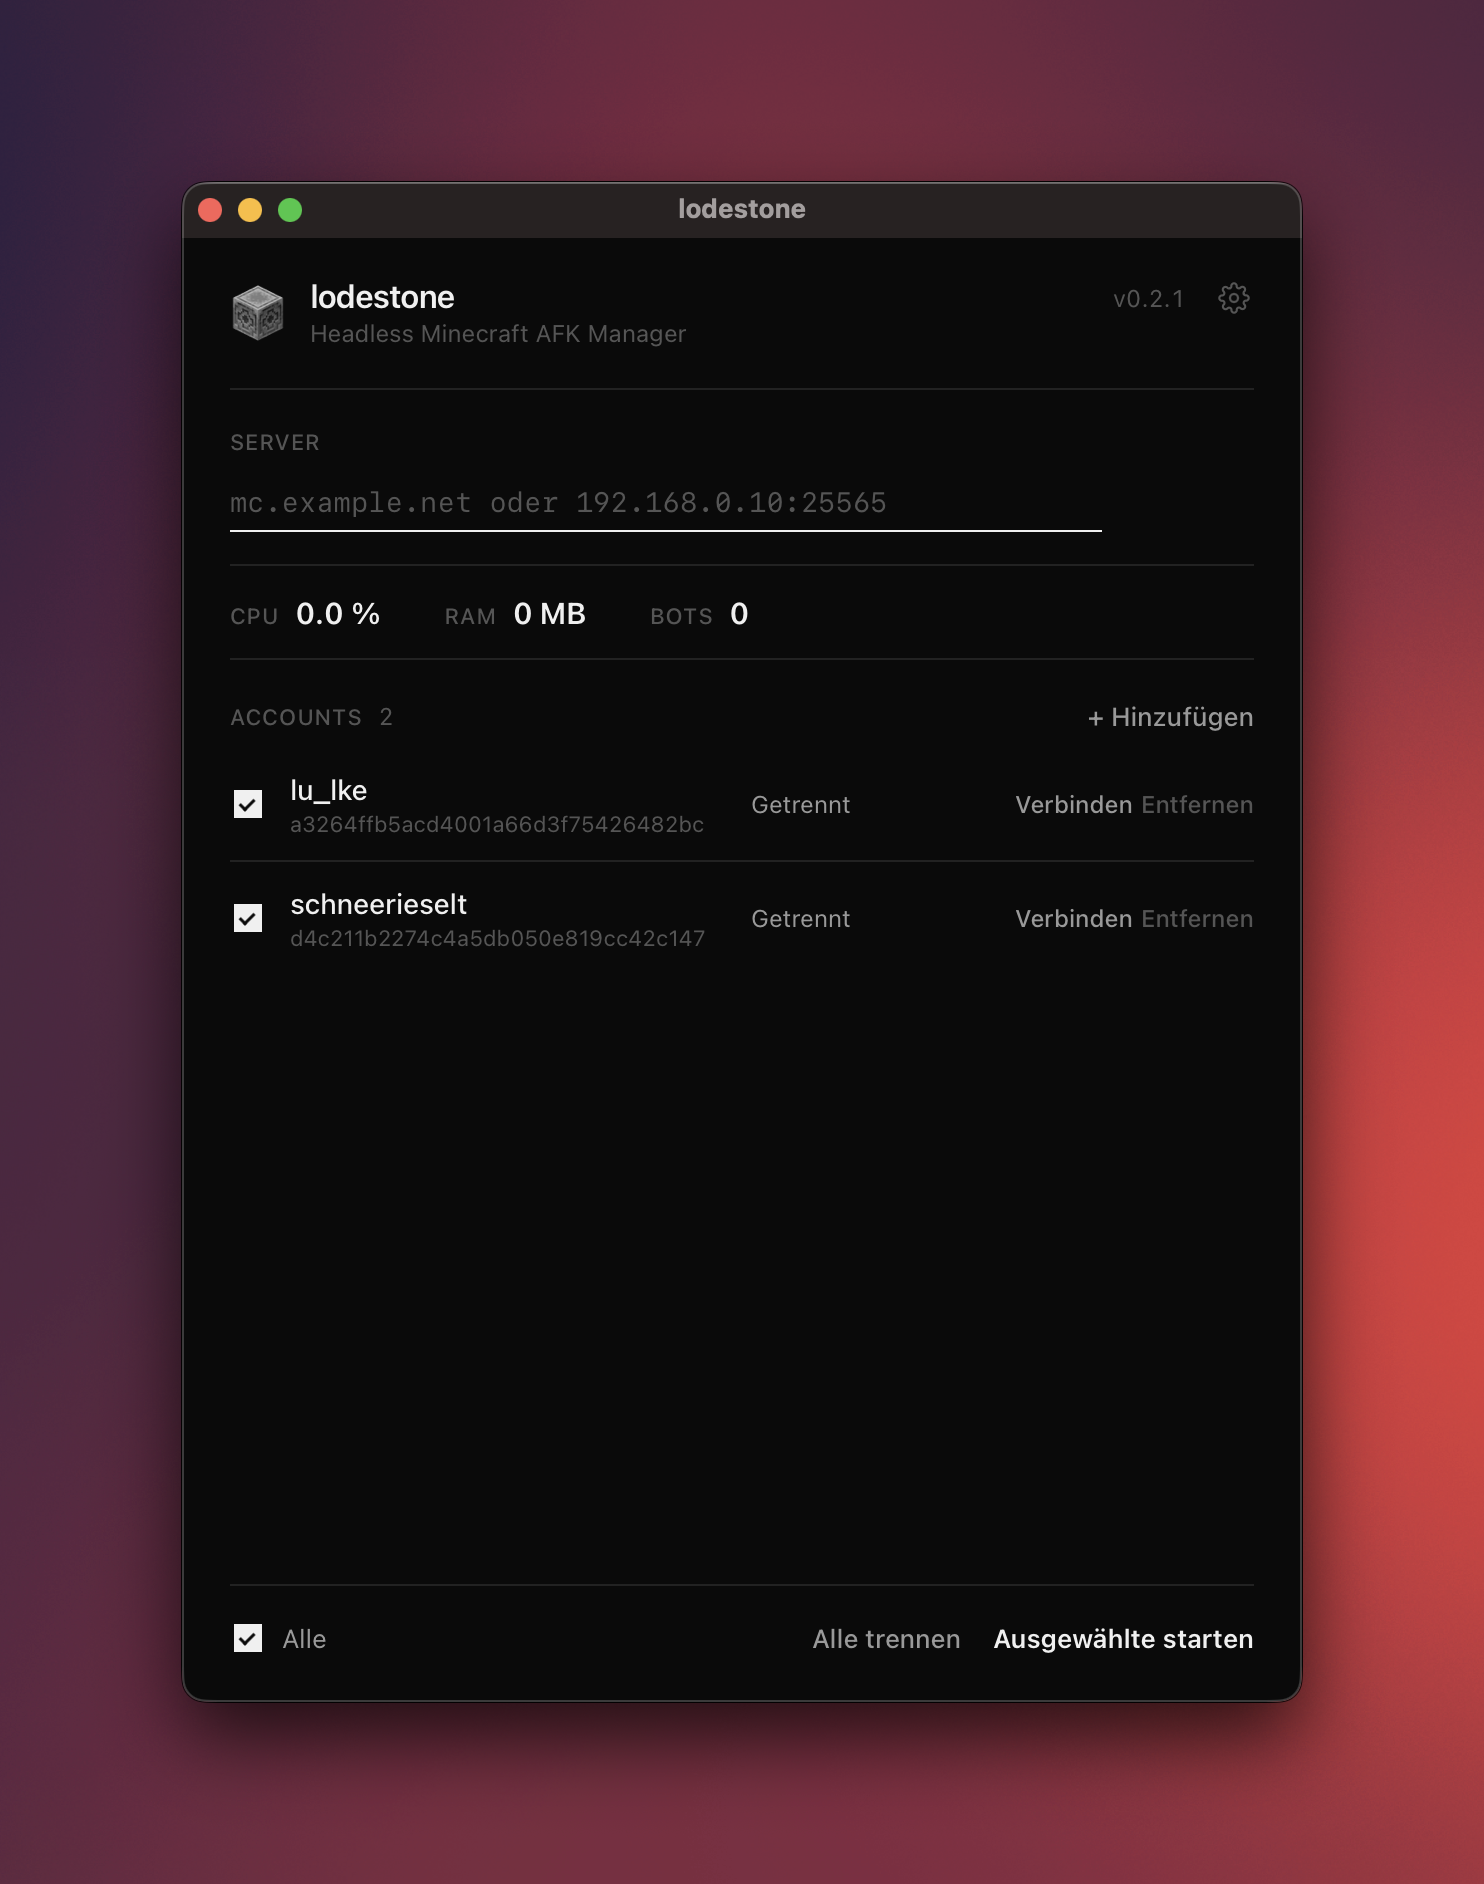
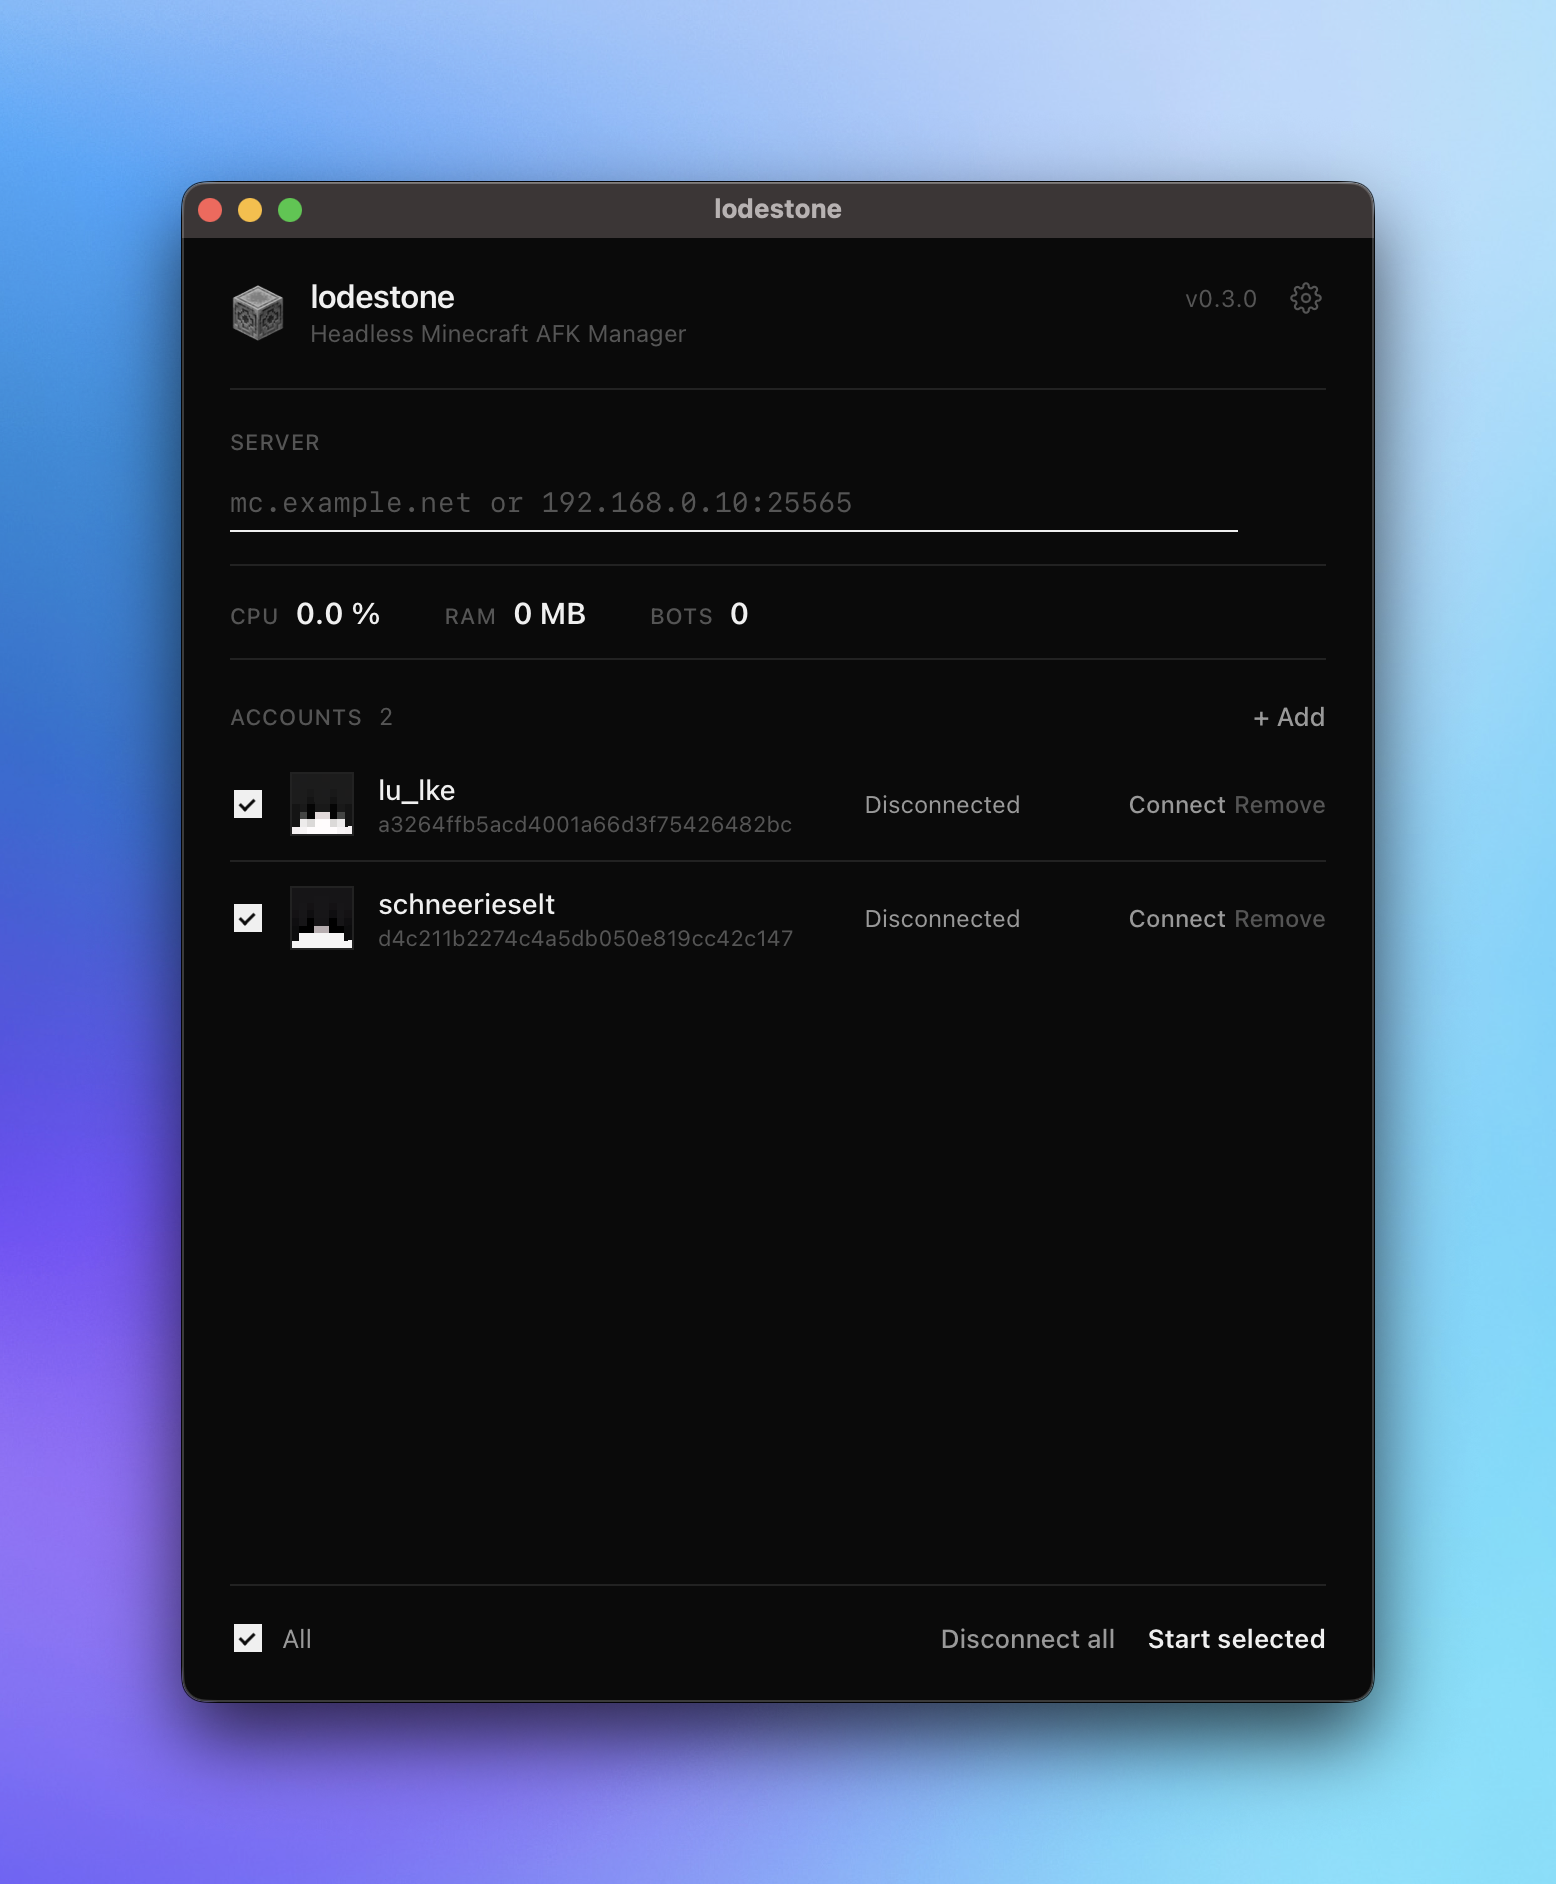
Update macOS event handling in Tauri application and replace main window screenshot

diff --git a/src-tauri/src/lib.rs b/src-tauri/src/lib.rs
@@ -362,10 +362,12 @@ pub fn run() {
         ])
         .build(tauri::generate_context!())
         .expect("error while running tauri application")
-        .run(|app, event| {
+        .run(|_app, _event| {
             // macOS: clicking the dock icon should restore the hidden window.
-            if let tauri::RunEvent::Reopen { .. } = event {
-                show_main(app);
+            // `RunEvent::Reopen` only exists on macOS, so gate it per-platform.
+            #[cfg(target_os = "macos")]
+            if let tauri::RunEvent::Reopen { .. } = _event {
+                show_main(_app);
             }
         });
 }